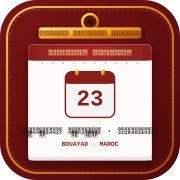
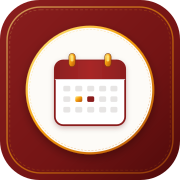
feat: add startup splash screen
Implement an initial splash screen with the application branding to improve perceived load time and user experience.

diff --git a/src/components/SplashScreen.tsx b/src/components/SplashScreen.tsx
@@ -1,0 +1,87 @@
+import React, { useState, useEffect } from 'react';
+import { CalendarDays } from 'lucide-react';
+
+interface SplashScreenProps {
+  onFinish?: () => void;
+}
+
+export const SplashScreen: React.FC<SplashScreenProps> = ({ onFinish }) => {
+  const [isVisible, setIsVisible] = useState(() => {
+    try {
+      // Show splash once per browsing session to provide a polished native-app feel
+      return sessionStorage.getItem('bouayad_splash_done') !== 'true';
+    } catch {
+      return true;
+    }
+  });
+  const [isFading, setIsFading] = useState(false);
+
+  useEffect(() => {
+    if (!isVisible) return;
+
+    // Show splash briefly (800ms) then smoothly fade out
+    const fadeTimer = setTimeout(() => {
+      setIsFading(true);
+    }, 850);
+
+    const finishTimer = setTimeout(() => {
+      setIsVisible(false);
+      try {
+        sessionStorage.setItem('bouayad_splash_done', 'true');
+      } catch {
+        // ignore
+      }
+      onFinish?.();
+    }, 1250);
+
+    return () => {
+      clearTimeout(fadeTimer);
+      clearTimeout(finishTimer);
+    };
+  }, [isVisible, onFinish]);
+
+  if (!isVisible) return null;
+
+  return (
+    <div
+      onClick={() => {
+        setIsFading(true);
+        setTimeout(() => {
+          setIsVisible(false);
+          try {
+            sessionStorage.setItem('bouayad_splash_done', 'true');
+          } catch {
+            // ignore
+          }
+        }, 150);
+      }}
+      className={`fixed inset-0 z-50 flex flex-col items-center justify-center bg-[#f7f4ee] dark:bg-[#151311] transition-opacity duration-400 cursor-pointer select-none ${
+        isFading ? 'opacity-0 pointer-events-none' : 'opacity-100'
+      }`}
+      role="dialog"
+      aria-label="Écran de démarrage L'Éphéméride Bouayad"
+    >
+      {/* Centered Splash Circle containing JUST the calendar icon */}
+      <div className="relative flex items-center justify-center">
+        {/* Subtle decorative pulse ring */}
+        <div className="absolute inset-0 -m-3 rounded-full bg-amber-400/20 dark:bg-amber-400/10 blur-md animate-pulse" />
+
+        {/* The Circle */}
+        <div className="relative w-28 h-28 sm:w-32 sm:h-32 rounded-full bg-white dark:bg-[#221e1a] border-3 border-amber-500/40 dark:border-amber-400/30 shadow-2xl flex items-center justify-center transition-transform hover:scale-105">
+          {/* Inside the circle: JUST the calendar icon */}
+          <CalendarDays className="w-14 h-14 sm:w-16 sm:h-16 text-[#8B1E1E] dark:text-amber-400 drop-shadow-xs" />
+        </div>
+      </div>
+
+      {/* App Wordmark Title underneath */}
+      <div className="mt-5 text-center">
+        <h1 className="font-serif text-lg sm:text-xl font-bold text-stone-900 dark:text-stone-100 tracking-wide">
+          اليومية لبوعياد
+        </h1>
+        <p className="text-xs text-amber-800 dark:text-amber-400/90 font-amiri mt-0.5" dir="rtl">
+          اليومية العصرية لبوعياد
+        </p>
+      </div>
+    </div>
+  );
+};

diff --git a/index.html b/index.html
@@ -25,7 +25,28 @@
     <link href="https://fonts.googleapis.com/css2?family=Amiri:ital,wght@0,400;0,700;1,400&family=Cairo:wght@400;600;700;800&family=Cormorant+Garamond:ital,wght@0,500;0,600;0,700;1,600&family=Plus+Jakarta+Sans:wght@400;500;600;700&display=swap" rel="stylesheet">
   </head>
   <body class="bg-stone-100 text-stone-900 antialiased selection:bg-amber-200 selection:text-stone-900">
-    <div id="root"></div>
+    <div id="root">
+      <div style="position:fixed;inset:0;display:flex;flex-direction:column;align-items:center;justify-content:center;background-color:#f7f4ee;z-index:9999;">
+        <div style="width:112px;height:112px;border-radius:50%;background:#ffffff;border:3px solid rgba(245,158,11,0.35);box-shadow:0 12px 32px rgba(139,30,30,0.12);display:flex;align-items:center;justify-content:center;">
+          <!-- Just the Calendar Icon inside the circle -->
+          <svg width="56" height="56" viewBox="0 0 24 24" fill="none" stroke="#8B1E1E" stroke-width="2" stroke-linecap="round" stroke-linejoin="round">
+            <path d="M8 2v4"></path>
+            <path d="M16 2v4"></path>
+            <rect width="18" height="18" x="3" y="4" rx="2"></rect>
+            <path d="M3 10h18"></path>
+            <path d="M8 14h.01"></path>
+            <path d="M12 14h.01"></path>
+            <path d="M16 14h.01"></path>
+            <path d="M8 18h.01"></path>
+            <path d="M12 18h.01"></path>
+            <path d="M16 18h.01"></path>
+          </svg>
+        </div>
+        <div style="margin-top:18px;font-family:'Amiri',serif;font-size:18px;font-weight:bold;color:#1c1917;">
+          اليومية لبوعياد
+        </div>
+      </div>
+    </div>
     <script type="module" src="/src/main.tsx"></script>
   </body>
 </html>

diff --git a/src/App.tsx b/src/App.tsx
@@ -10,6 +10,7 @@ import { LegalNoticeView } from './components/LegalNoticeView';
 import { FavoritesModal, SavedLeafItem } from './components/FavoritesModal';
 import { SearchModal } from './components/SearchModal';
 import { OfflineIndicator } from './components/OfflineIndicator';
+import { SplashScreen } from './components/SplashScreen';
 import { MapPin } from 'lucide-react';
 import { MoroccanCity, MOROCCAN_CITIES, DEFAULT_CITY, findClosestMoroccanCity } from './data/moroccanCities';
 import { getQuadrupleCalendar } from './utils/calendars';
@@ -506,6 +507,9 @@ export default function App() {
           </button>
         </div>
       )}
+
+      {/* In-App Startup Splash Screen */}
+      <SplashScreen />
 
     </div>
   );

diff --git a/scripts/generate-pwa-icons.js b/scripts/generate-pwa-icons.js
@@ -42,7 +42,7 @@ async function generateIcons() {
       width: 512,
       height: 512,
       channels: 4,
-      background: { r: 101, g: 16, b: 16, alpha: 1 }, // Moroccan leather #651010
+      background: { r: 139, g: 30, b: 30, alpha: 1 }, // Moroccan crimson #8B1E1E
     },
   })
     .composite([
